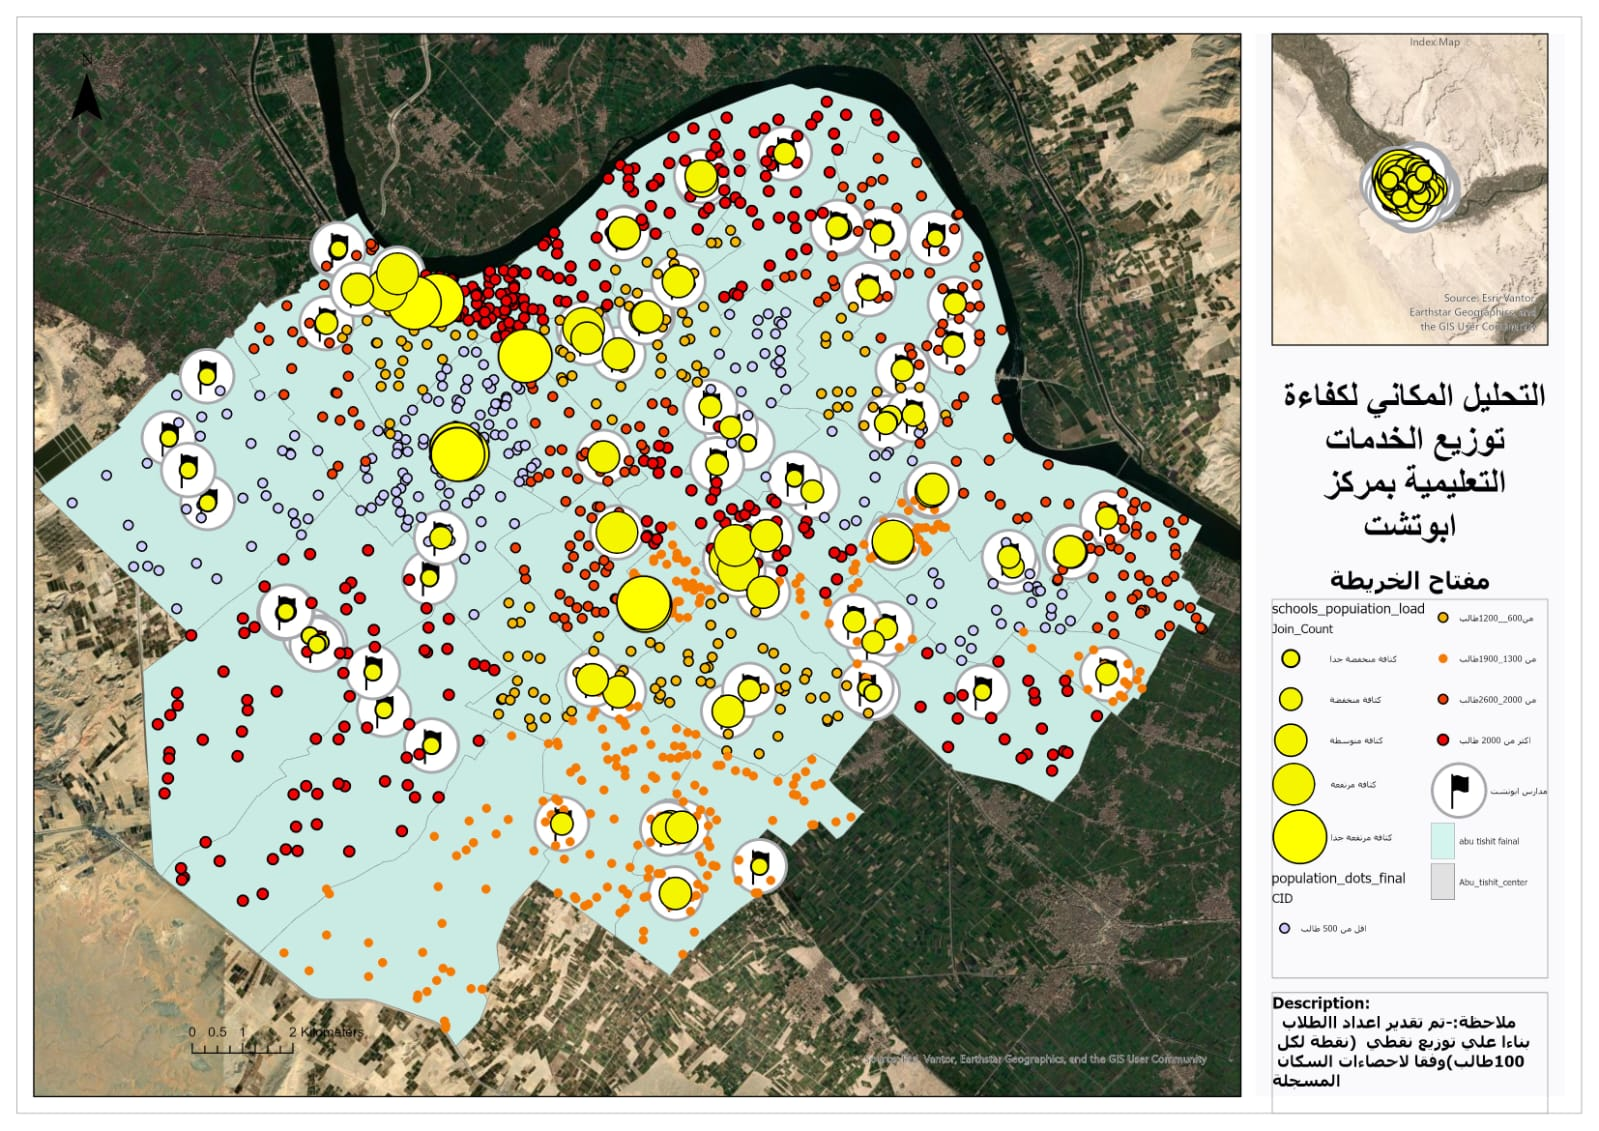
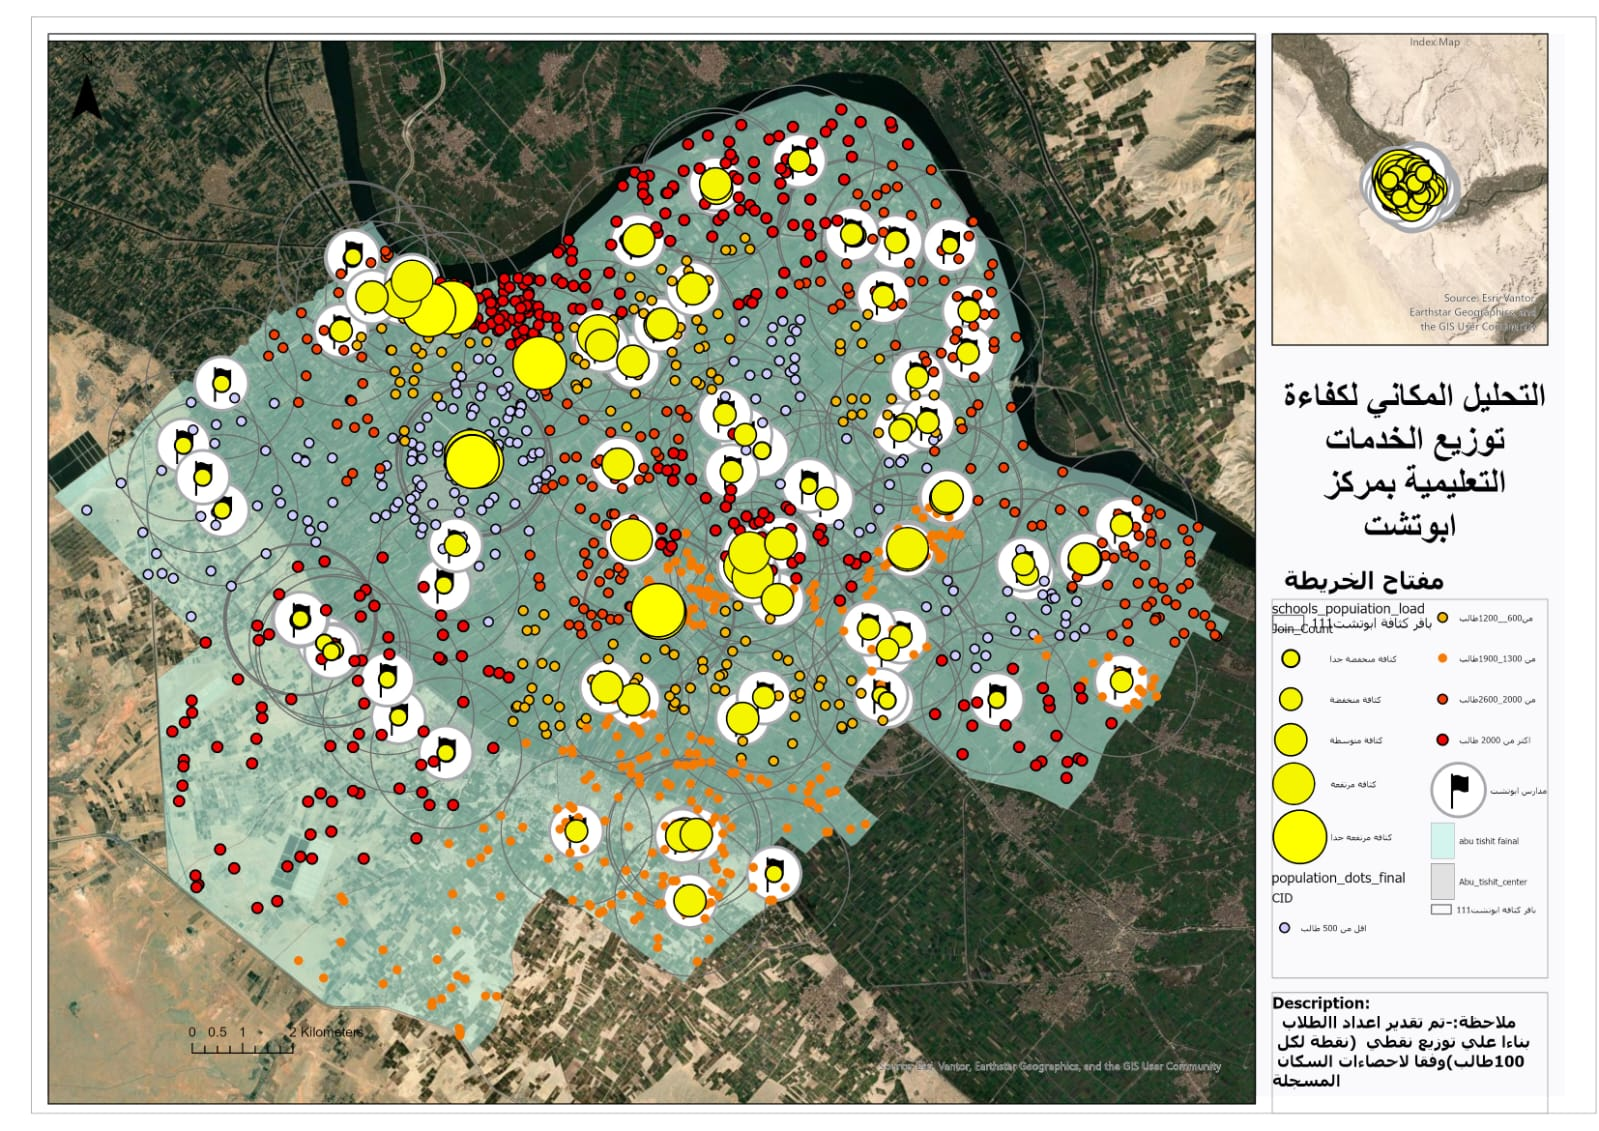
Add files via upload

diff --git a/cfxxxd.html b/cfxxxd.html
@@ -45,7 +45,7 @@
             color: #7dd3fc;
         }
 
-        /* تنسيق شبكة العرض لـ 3 صور بالتساوي */
+        /* تنسيق شبكة العرض لـ الصور بالتساوي */
         .gallery-grid {
             display: grid;
             grid-template-columns: repeat(auto-fit, minmax(320px, 1fr));
@@ -118,7 +118,6 @@
     </div>
 
     <div class="gallery-grid">
-        <!-- الصورة الأولى -->
         <div class="image-card" style="animation-delay: 0.1s;">
             <div class="image-container">
                 <img src="vvv/1.jpeg" alt="خريطة الكثافة 1" onerror="this.src='https://via.placeholder.com/400x300/1e293b/38bdf8?text=Density+Map+1'">
@@ -126,7 +125,6 @@
             <div class="image-info"></div>
         </div>
 
-        <!-- الصورة الثانية -->
         <div class="image-card" style="animation-delay: 0.2s;">
             <div class="image-container">
                 <img src="vvv/2.jpeg" alt="خريطة الكثافة 2" onerror="this.src='https://via.placeholder.com/400x300/1e293b/38bdf8?text=Density+Map+2'">
@@ -134,10 +132,37 @@
             <div class="image-info"></div>
         </div>
 
-        <!-- الصورة الثالث -->
         <div class="image-card" style="animation-delay: 0.3s;">
             <div class="image-container">
                 <img src="vvv/3.jpeg" alt="خريطة الكثافة 3" onerror="this.src='https://via.placeholder.com/400x300/1e293b/38bdf8?text=Density+Map+3'">
+            </div>
+            <div class="image-info"></div>
+        </div>
+
+        <div class="image-card" style="animation-delay: 0.4s;">
+            <div class="image-container">
+                <img src="vvv/4.jpeg" alt="خريطة الكثافة 4" onerror="this.src='https://via.placeholder.com/400x300/1e293b/38bdf8?text=Density+Map+4'">
+            </div>
+            <div class="image-info"></div>
+        </div>
+
+        <div class="image-card" style="animation-delay: 0.5s;">
+            <div class="image-container">
+                <img src="vvv/5.jpeg" alt="خريطة الكثافة 5" onerror="this.src='https://via.placeholder.com/400x300/1e293b/38bdf8?text=Density+Map+5'">
+            </div>
+            <div class="image-info"></div>
+        </div>
+
+        <div class="image-card" style="animation-delay: 0.6s;">
+            <div class="image-container">
+                <img src="vvv/6.jpeg" alt="خريطة الكثافة 6" onerror="this.src='https://via.placeholder.com/400x300/1e293b/38bdf8?text=Density+Map+6'">
+            </div>
+            <div class="image-info"></div>
+        </div>
+
+        <div class="image-card" style="animation-delay: 0.7s;">
+            <div class="image-container">
+                <img src="vvv/7.jpeg" alt="خريطة الكثافة 7" onerror="this.src='https://via.placeholder.com/400x300/1e293b/38bdf8?text=Density+Map+7'">
             </div>
             <div class="image-info"></div>
         </div>